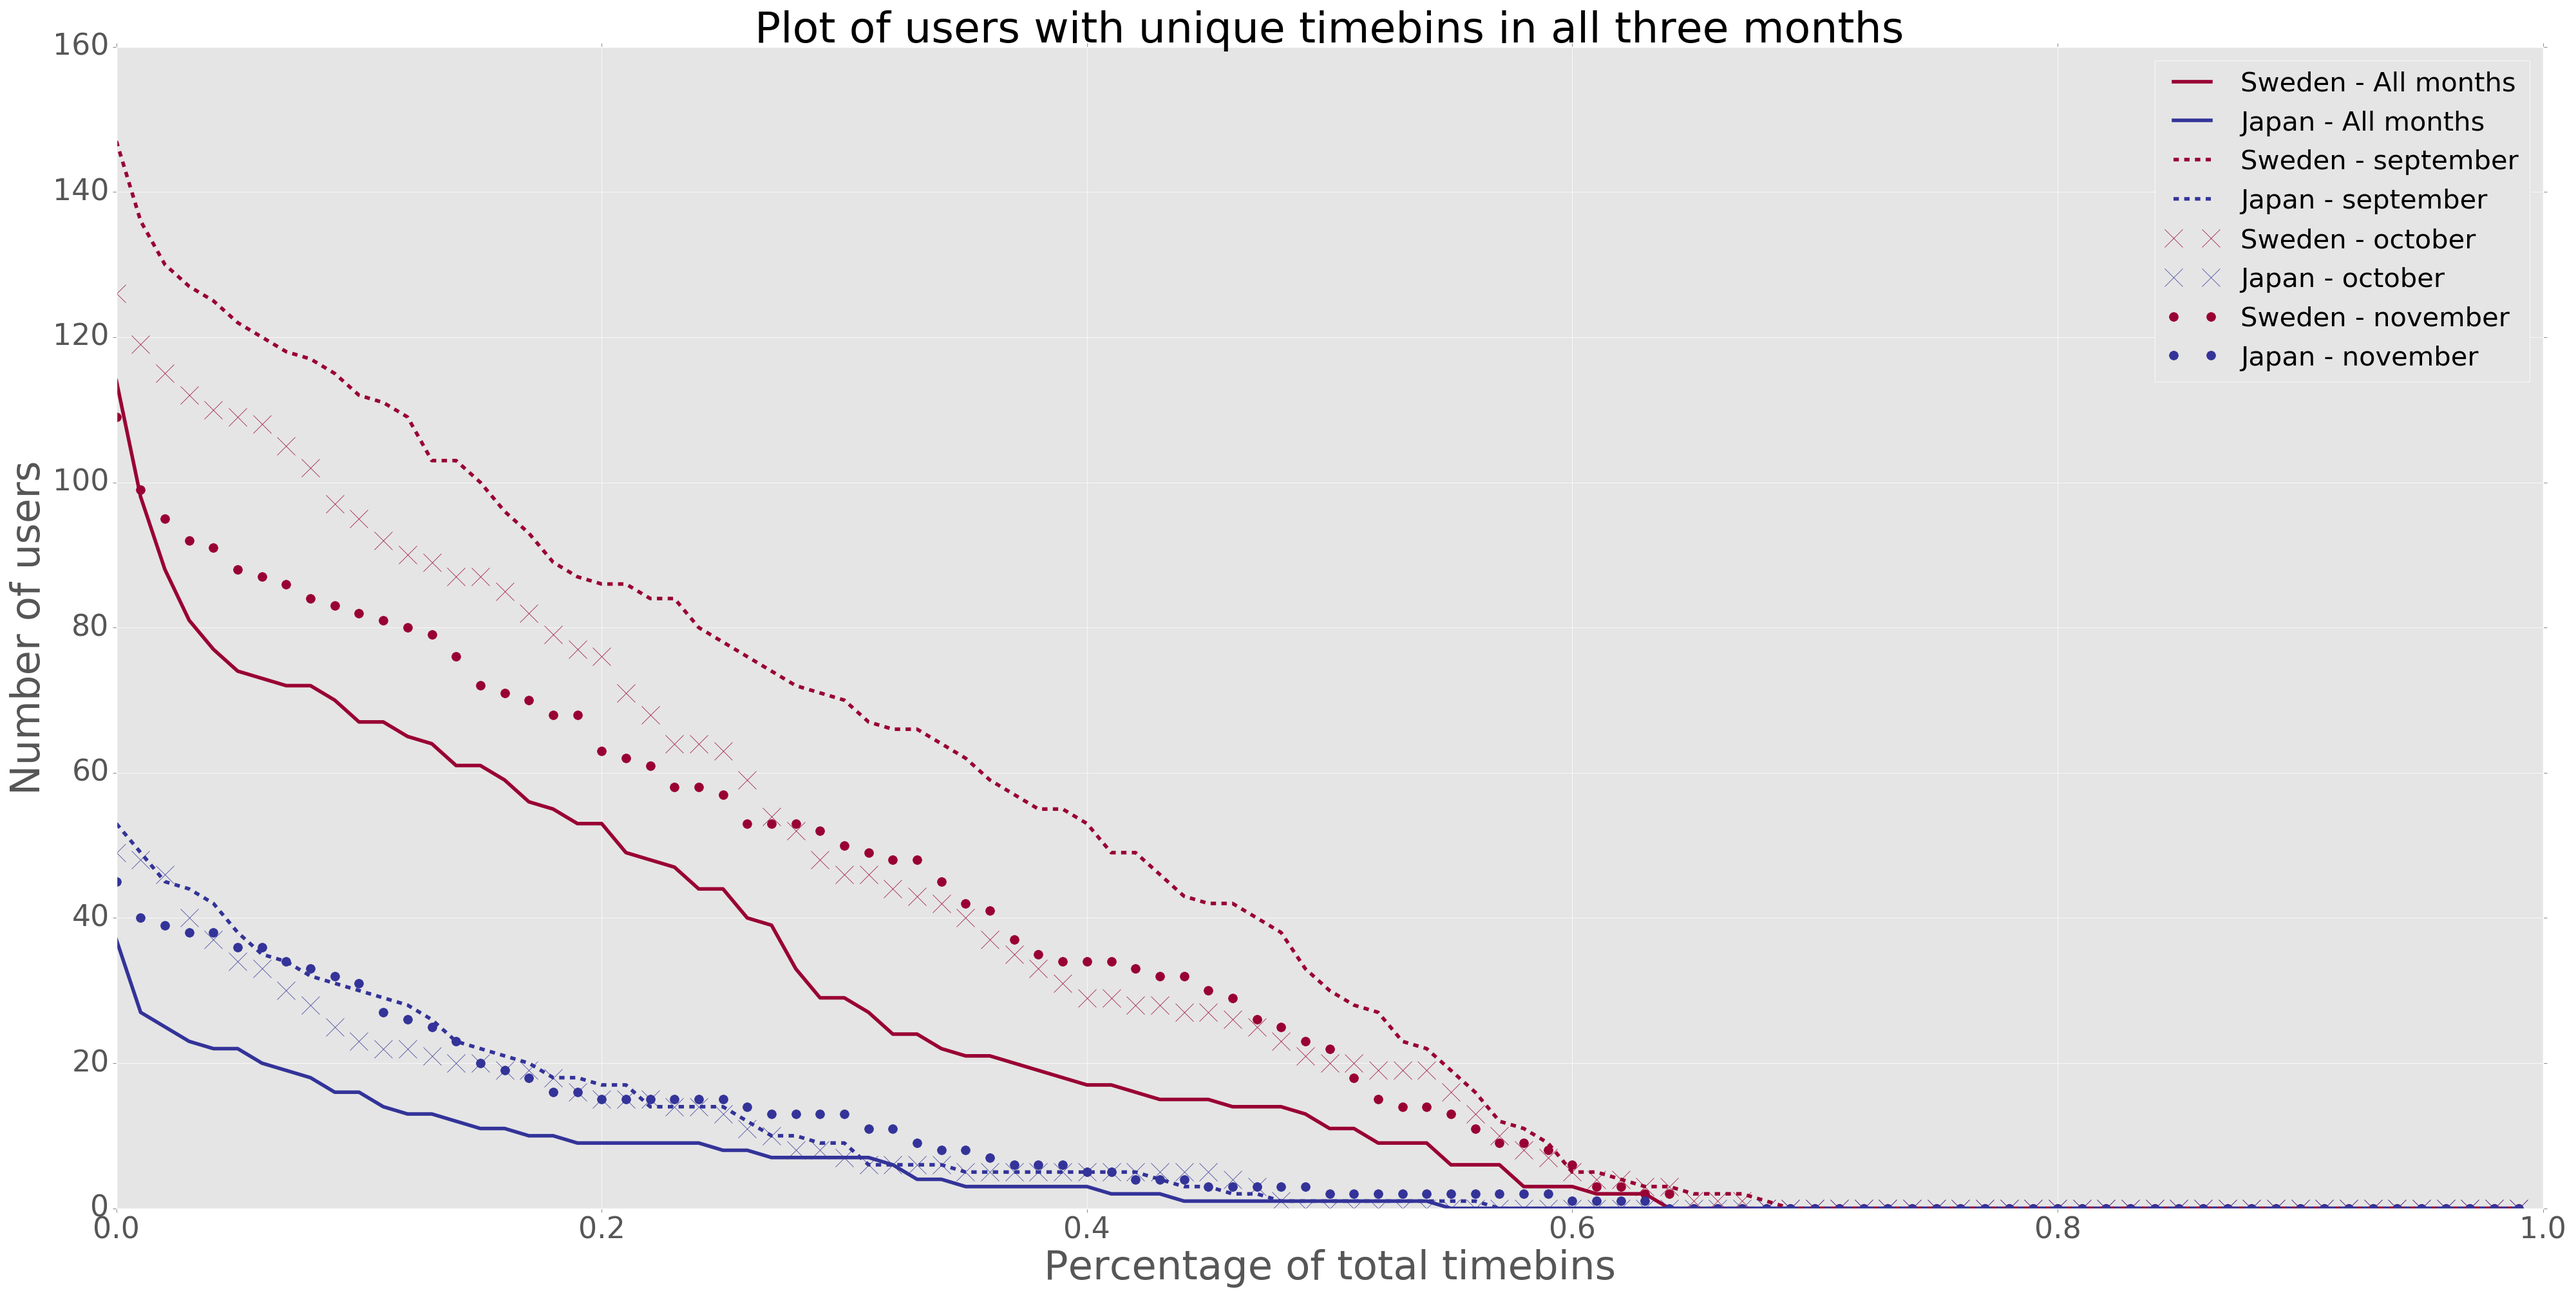
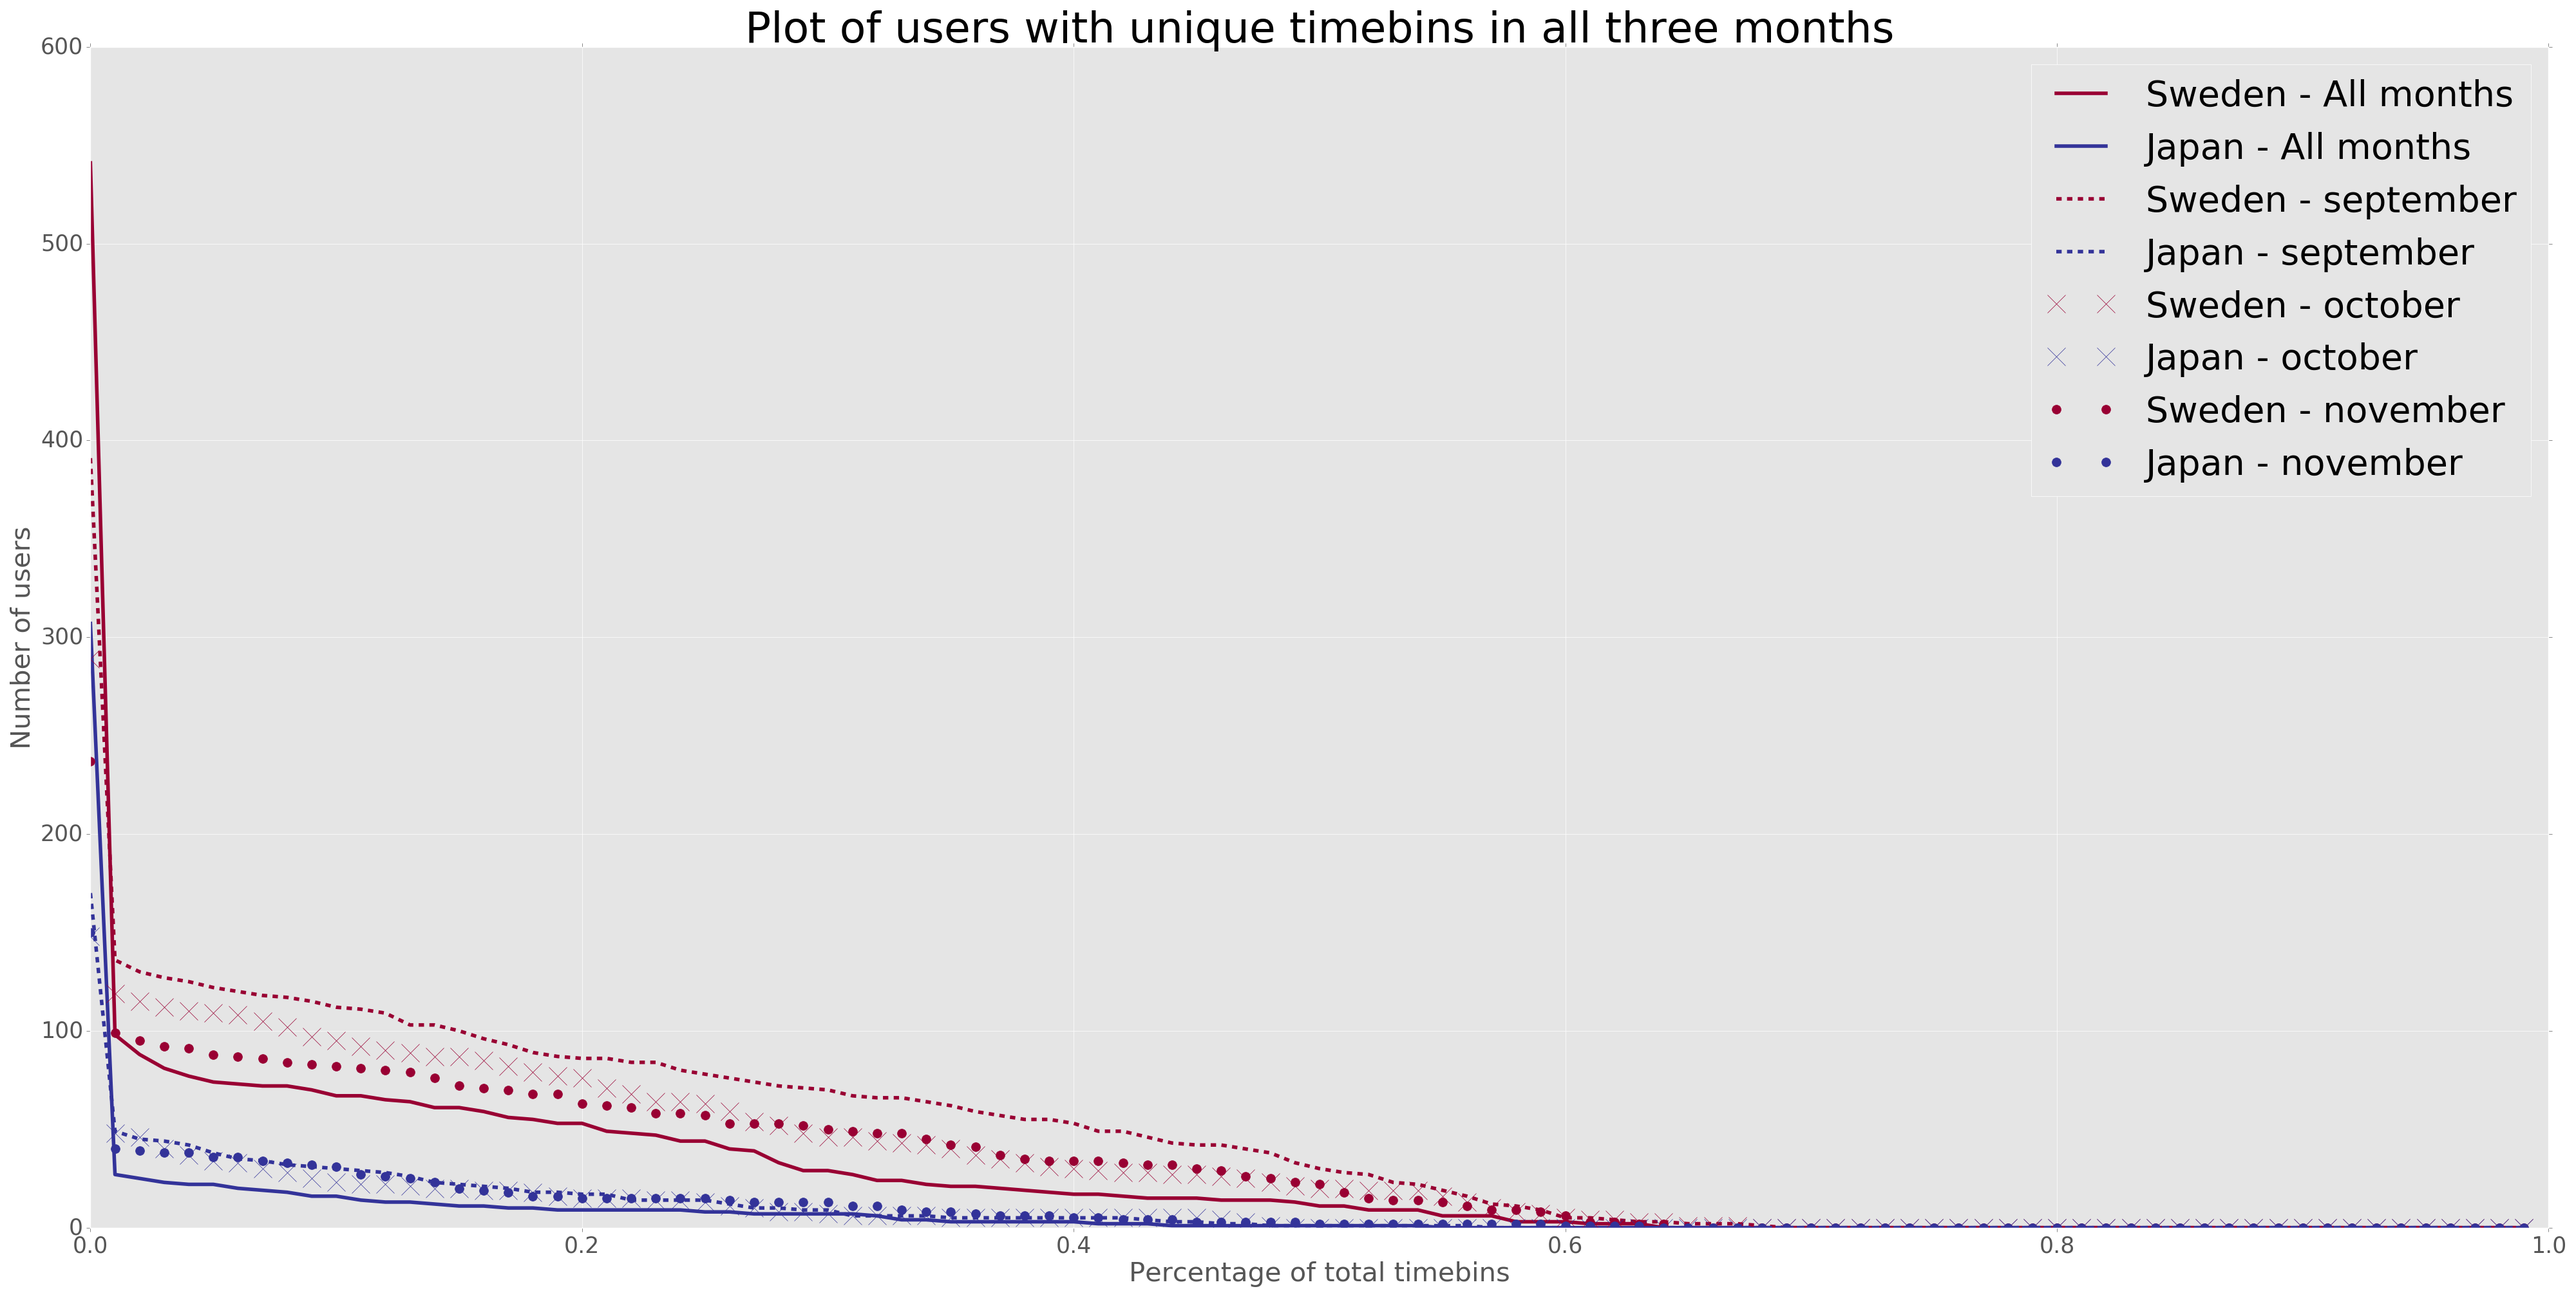
figure updated and size of lines updated

diff --git a/tools/scripts/find_user_criteria_for_dataset.py b/tools/scripts/find_user_criteria_for_dataset.py
@@ -77,8 +77,8 @@ def generate_plot():
 
     periods = (first_period_time_bin_min, first_period_time_bin_max, second_period_time_bin_min, second_period_time_bin_max, third_period_time_bin_min, third_period_time_bin_max)
 
-    sweden, = plt.plot(np.arange(0, 1, 0.01), compute_plot_in_three_periods("Sweden", periods), label="Sweden - All months", color='#990033')
-    japan, = plt.plot(np.arange(0, 1, 0.01), compute_plot_in_three_periods("Japan", periods), label="Japan - All months", color='#333399')
+    sweden, = plt.plot(np.arange(0, 1, 0.01), compute_plot_in_three_periods("Sweden", periods), label="Sweden - All months", linewidth=4.0, color='#990033')
+    japan, = plt.plot(np.arange(0, 1, 0.01), compute_plot_in_three_periods("Japan", periods), label="Japan - All months", linewidth=4.0, color='#333399')
 
     first_period_datetime_min = "2015-09-01 00:00:00+00:00"
     first_period_time_bin_min = db.calculate_time_bins(first_period_datetime_min)[0]
@@ -95,8 +95,8 @@ def generate_plot():
 
     periods = (first_period_time_bin_min, first_period_time_bin_max, second_period_time_bin_min, second_period_time_bin_max, third_period_time_bin_min, third_period_time_bin_max)
     
-    sweden_sept, = plt.plot(np.arange(0, 1, 0.01), compute_plot_in_three_periods("Sweden", periods), label="Sweden - september", color='#990033', linestyle='--')
-    japan_sept, = plt.plot(np.arange(0, 1, 0.01), compute_plot_in_three_periods("Japan", periods), label="Japan - september", color='#333399', linestyle='--')
+    sweden_sept, = plt.plot(np.arange(0, 1, 0.01), compute_plot_in_three_periods("Sweden", periods), label="Sweden - september", color='#990033', linestyle='--', linewidth=4.0)
+    japan_sept, = plt.plot(np.arange(0, 1, 0.01), compute_plot_in_three_periods("Japan", periods), label="Japan - september", color='#333399', linestyle='--', linewidth=4.0)
 
     first_period_datetime_min = "2015-10-01 00:00:00+00:00"
     first_period_time_bin_min = db.calculate_time_bins(first_period_datetime_min)[0]
@@ -113,8 +113,8 @@ def generate_plot():
 
     periods = (first_period_time_bin_min, first_period_time_bin_max, second_period_time_bin_min, second_period_time_bin_max, third_period_time_bin_min, third_period_time_bin_max)
     
-    sweden_oct, = plt.plot(np.arange(0, 1, 0.01), compute_plot_in_three_periods("Sweden", periods), label="Sweden - october", color='#990033', linestyle="None", marker="x")
-    japan_oct, = plt.plot(np.arange(0, 1, 0.01), compute_plot_in_three_periods("Japan", periods), label="Japan - october", color='#333399', linestyle="None", marker="x")
+    sweden_oct, = plt.plot(np.arange(0, 1, 0.01), compute_plot_in_three_periods("Sweden", periods), label="Sweden - october", color='#990033', linestyle="None", marker="x", markersize=20)
+    japan_oct, = plt.plot(np.arange(0, 1, 0.01), compute_plot_in_three_periods("Japan", periods), label="Japan - october", color='#333399', linestyle="None", marker="x", markersize=20)
 
     first_period_datetime_min = "2015-11-01 00:00:00+00:00"
     first_period_time_bin_min = db.calculate_time_bins(first_period_datetime_min)[0]
@@ -131,11 +131,11 @@ def generate_plot():
 
     periods = (first_period_time_bin_min, first_period_time_bin_max, second_period_time_bin_min, second_period_time_bin_max, third_period_time_bin_min, third_period_time_bin_max)
     
-    sweden_nov, = plt.plot(np.arange(0, 1, 0.01), compute_plot_in_three_periods("Sweden", periods), label="Sweden - november", color='#990033', linestyle="None", marker=".")
-    japan_nov, = plt.plot(np.arange(0, 1, 0.01), compute_plot_in_three_periods("Japan", periods), label="Japan - november", color='#333399', linestyle="None", marker=".")
+    sweden_nov, = plt.plot(np.arange(0, 1, 0.01), compute_plot_in_three_periods("Sweden", periods), label="Sweden - november", color='#990033', linestyle="None", marker=".", markersize=20)
+    japan_nov, = plt.plot(np.arange(0, 1, 0.01), compute_plot_in_three_periods("Japan", periods), label="Japan - november", color='#333399', linestyle="None", marker=".", markersize=20)
 
 
-    plt.legend(handles=[sweden, japan, sweden_sept, japan_sept, sweden_oct, japan_oct, sweden_nov, japan_nov], prop={'size': 20})
+    plt.legend(handles=[sweden, japan, sweden_sept, japan_sept, sweden_oct, japan_oct, sweden_nov, japan_nov], prop={'size': 40})
     plt.ylabel("Number of users")
     plt.xlabel("Percentage of total timebins")
     plt.title("Plot of users with unique timebins in all three months")
